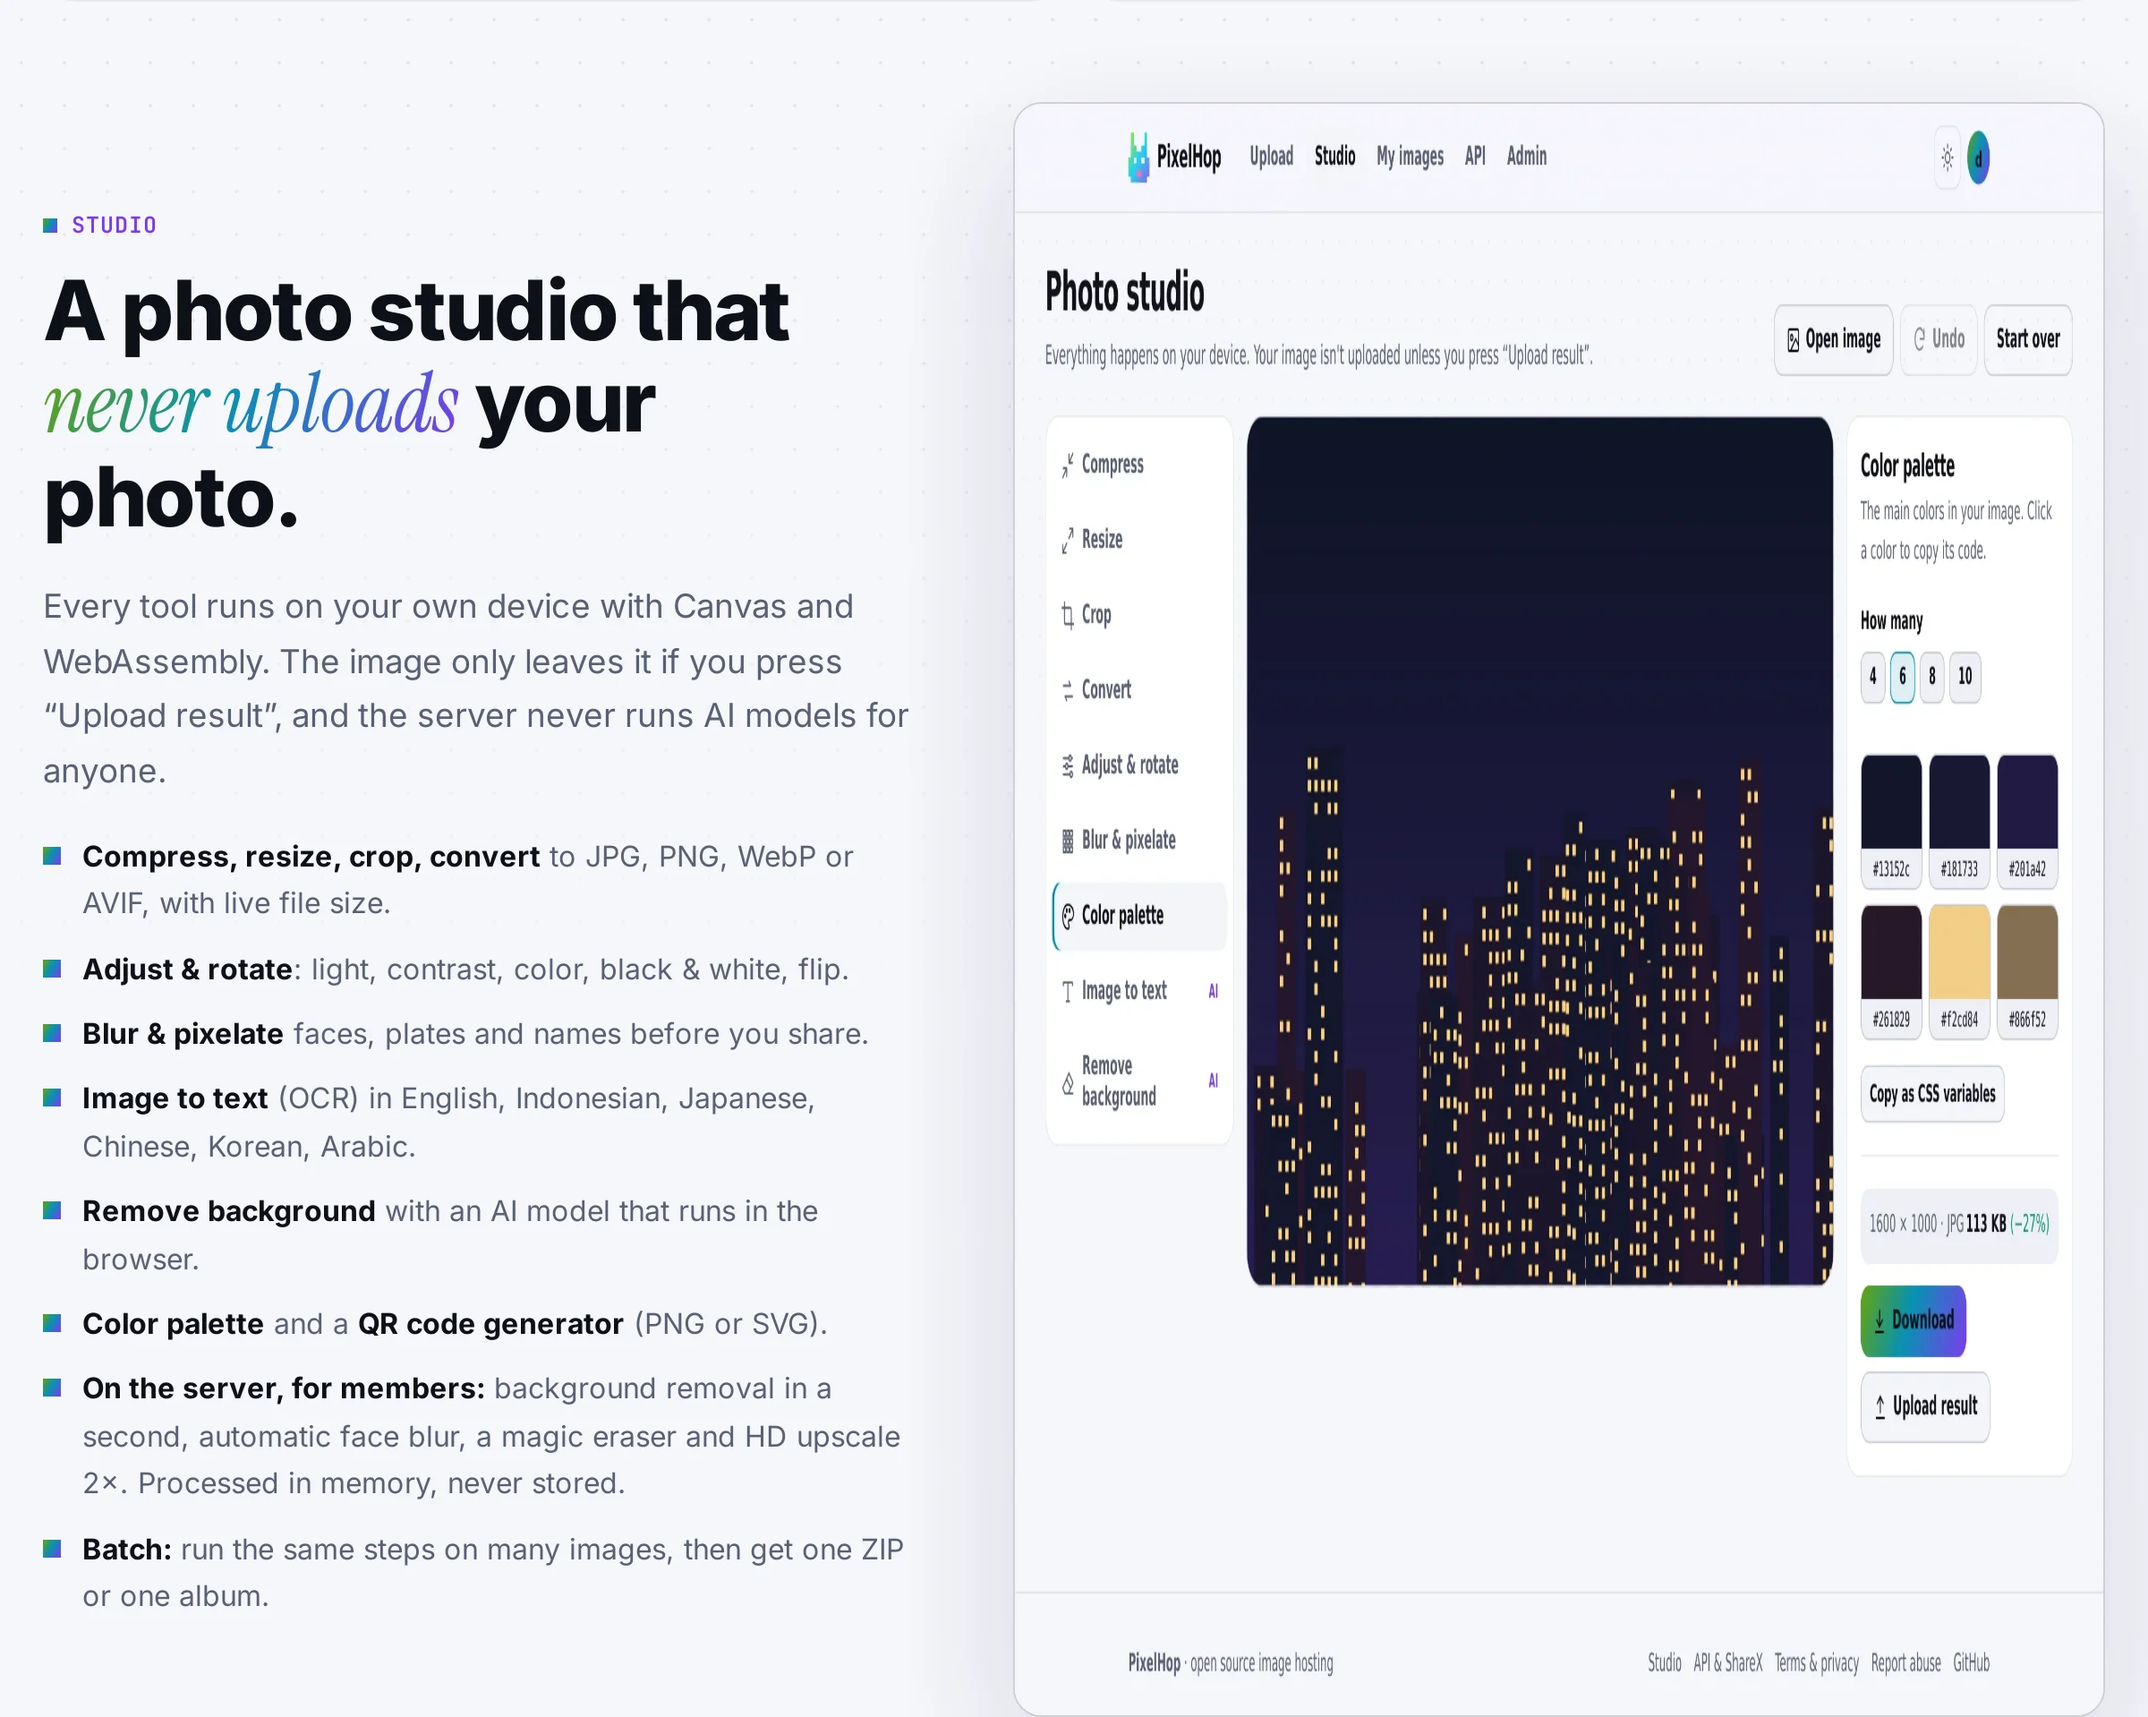
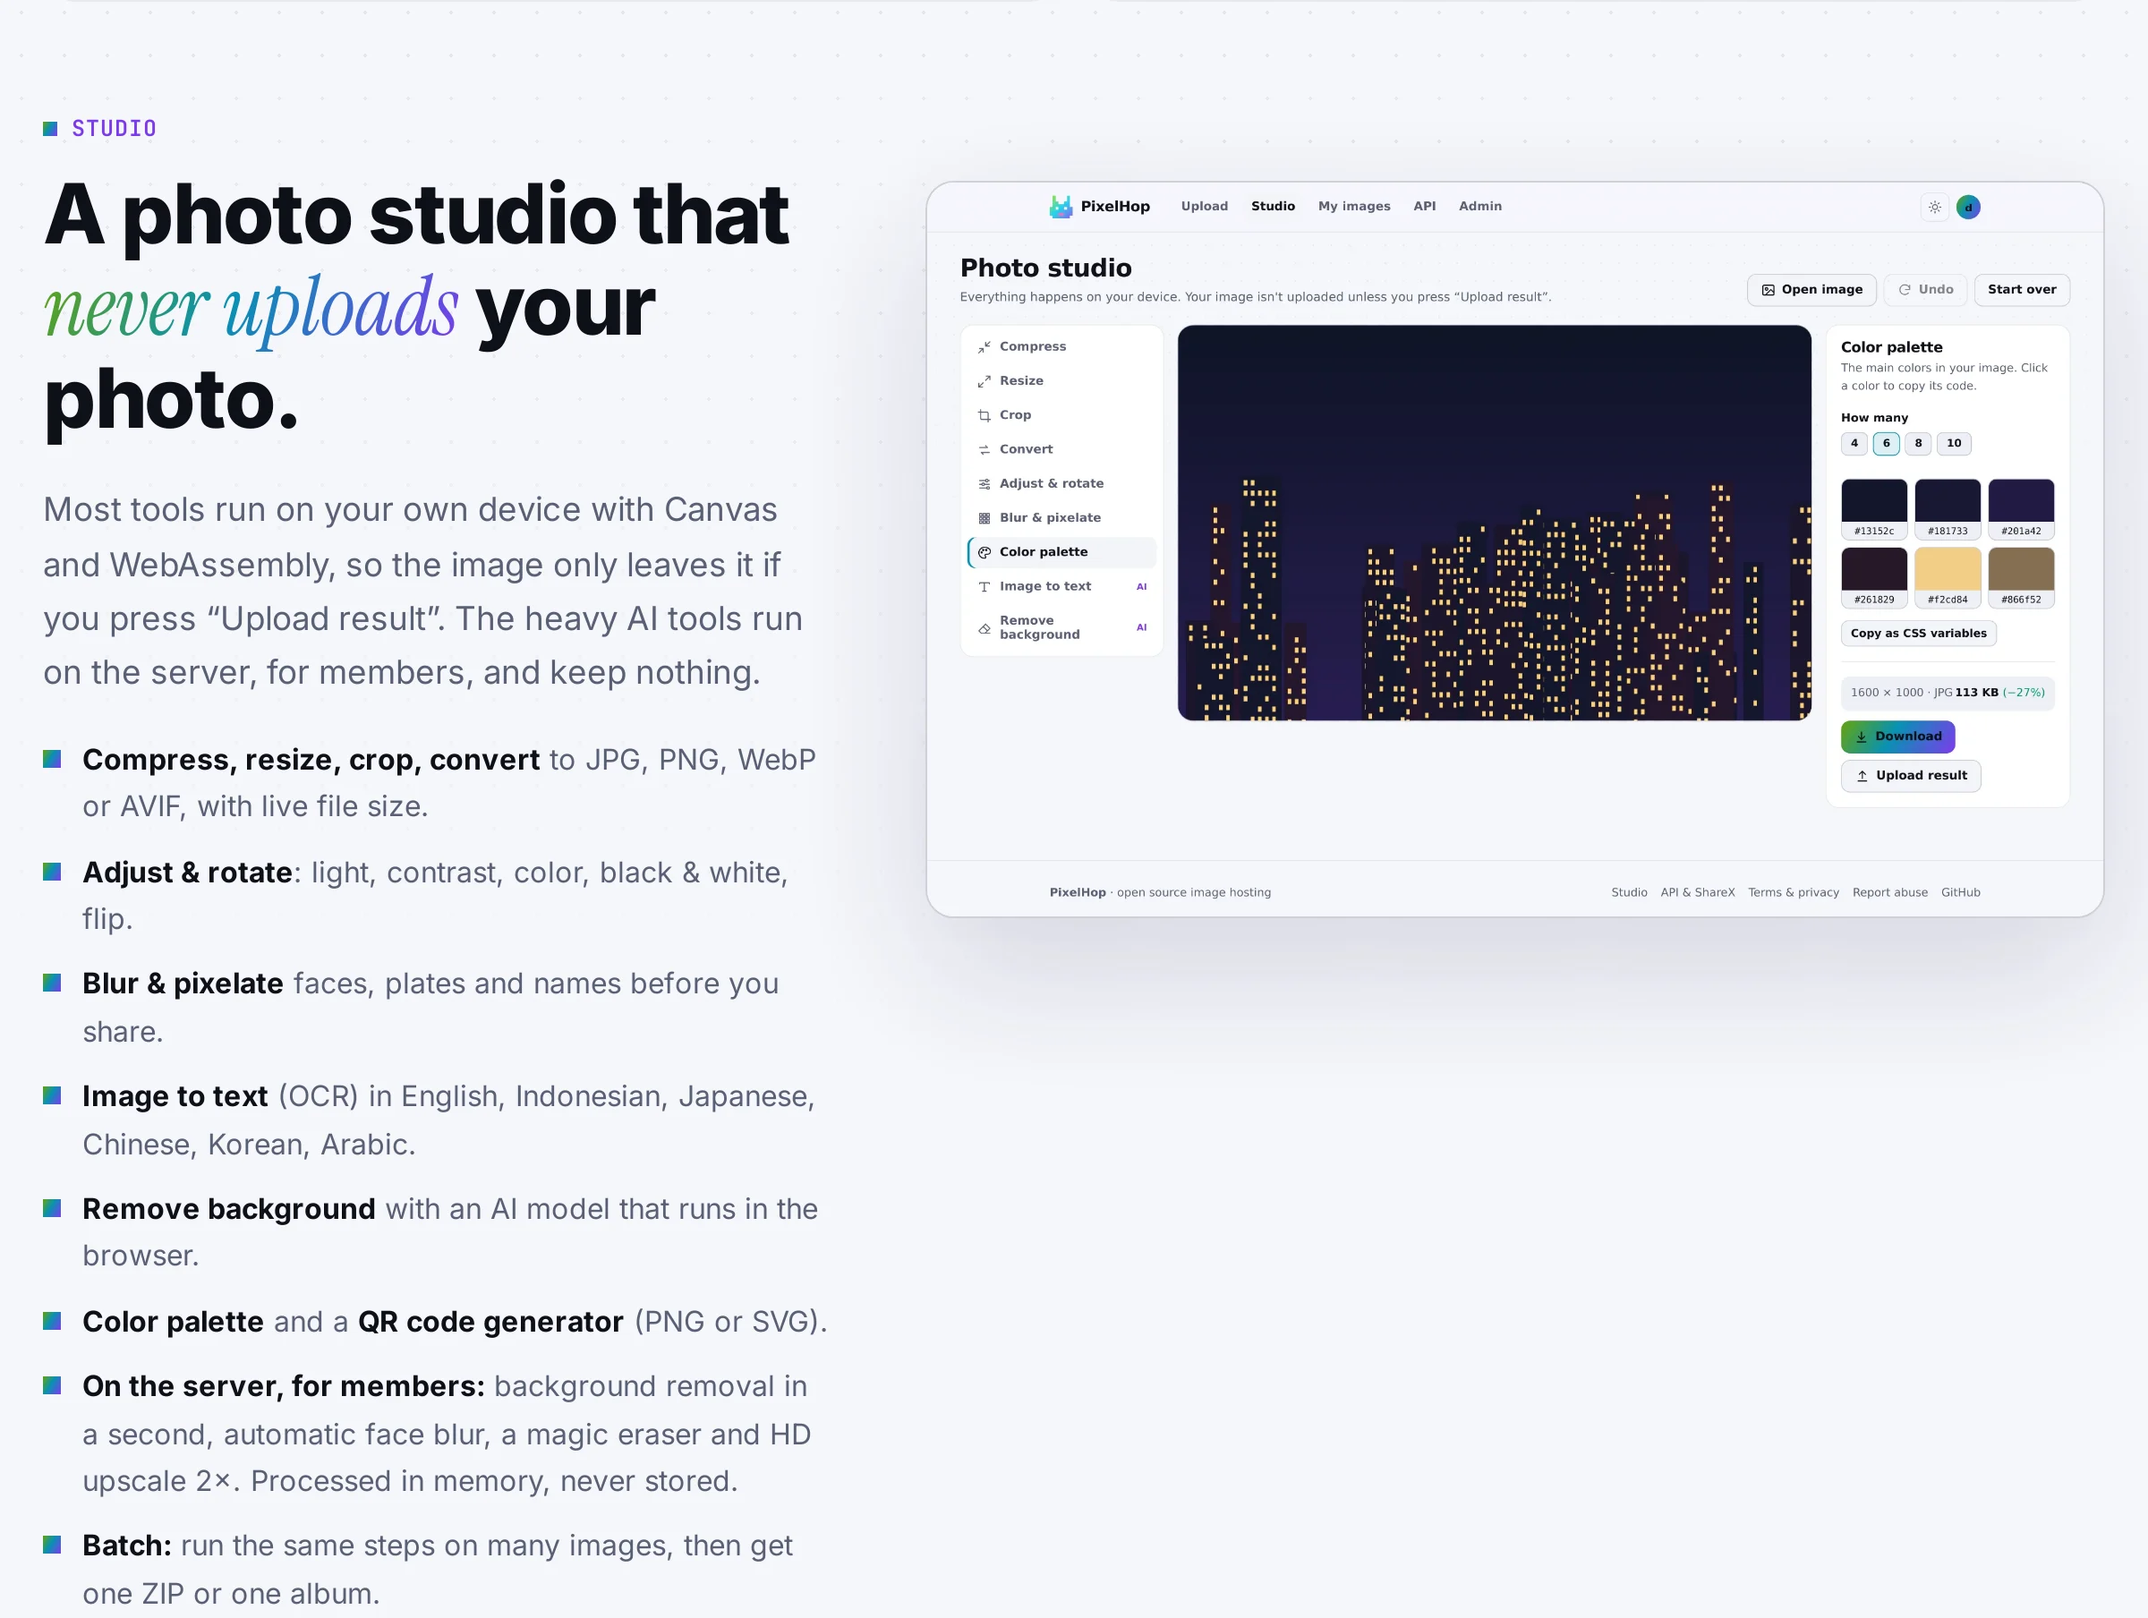
Fix the Windows build; keep screenshots in proportion
- disk space is read with syscall.Statfs only on unix; other systems skip it
  (the v3.0.0 release failed building pixelhop-windows-amd64.exe)
- website images get height:auto, so screenshots are no longer squeezed;
  studio screenshot aligned with its heading and a little larger
- studio copy mentions the optional server AI tools; README pictures re-rendered

diff --git a/docs/index.html b/docs/index.html
@@ -126,7 +126,7 @@ if(t==='light'||t==='dark')d.setAttribute('data-theme',t);})();
     <div class="rv">
       <div class="label">Studio</div>
       <h2><span data-en>A photo studio that <em class="s grad">never uploads</em> your photo.</span><span data-id>Studio foto yang <em class="s grad">tidak pernah mengunggah</em> fotomu.</span></h2>
-      <p class="lead"><span data-en>Every tool runs on your own device with Canvas and WebAssembly. The image only leaves it if you press “Upload result”, and the server never runs AI models for anyone.</span><span data-id>Semua alat jalan di perangkatmu sendiri dengan Canvas dan WebAssembly. Gambar baru keluar kalau kamu menekan “Upload result”, dan server tidak pernah menjalankan model AI untuk siapa pun.</span></p>
+      <p class="lead"><span data-en>Most tools run on your own device with Canvas and WebAssembly, so the image only leaves it if you press “Upload result”. The heavy AI tools run on the server, for members, and keep nothing.</span><span data-id>Sebagian besar alat jalan di perangkatmu sendiri dengan Canvas dan WebAssembly, jadi gambar baru keluar kalau kamu menekan “Upload result”. Alat AI yang berat jalan di server, untuk member, dan tidak menyimpan apa pun.</span></p>
       <ul class="ticks">
         <li><span data-en><b>Compress, resize, crop, convert</b> to JPG, PNG, WebP or AVIF, with live file size.</span><span data-id><b>Kompres, ubah ukuran, crop, konversi</b> ke JPG, PNG, WebP atau AVIF, ukuran file langsung terlihat.</span></li>
         <li><span data-en><b>Adjust &amp; rotate</b>: light, contrast, color, black &amp; white, flip.</span><span data-id><b>Atur &amp; putar</b>: terang, kontras, warna, hitam putih, balik.</span></li>

diff --git a/docs/assets/css/site.css b/docs/assets/css/site.css
@@ -46,7 +46,7 @@ body { margin: 0; background: var(--ground); color: var(--text); font: 16px/1.65
 body::before { content: ""; position: fixed; inset: 0; z-index: -1; pointer-events: none;
   background-image: radial-gradient(var(--dot) 1px, transparent 1px); background-size: 24px 24px;
   mask-image: linear-gradient(#000, transparent 75%); }
-img { max-width: 100%; display: block; }
+img { max-width: 100%; height: auto; display: block; }
 a { color: var(--cyan); text-decoration: none; }
 a:hover { text-decoration: underline; text-underline-offset: 3px; }
 h1, h2, h3 { margin: 0 0 .45em; line-height: 1.1; letter-spacing: -.025em; }
@@ -133,7 +133,9 @@ section { padding: 110px 0 0; scroll-margin-top: 60px; }
 @media (max-width: 600px) { .feats > div, .feats > div.w3 { grid-column: span 6; } }
 
 /* split rows */
-.split { display: grid; grid-template-columns: 1fr 1.25fr; gap: 54px; align-items: center; }
+.split { display: grid; grid-template-columns: 1fr 1.25fr; gap: 54px; align-items: start; }
+#studio .split { grid-template-columns: .9fr 1.35fr; }
+.split .mini-shot { margin-top: 44px; }
 .split.rev { grid-template-columns: 1.25fr 1fr; } .split.rev > :first-child { order: 2; }
 @media (max-width: 900px) { .split, .split.rev { grid-template-columns: 1fr; } .split.rev > :first-child { order: 0; } }
 .ticks { list-style: none; padding: 0; margin: 20px 0 0; display: grid; gap: 10px; }

diff --git a/internal/app/disk_other.go b/internal/app/disk_other.go
@@ -1,0 +1,6 @@
+//go:build !unix
+
+package app
+
+// diskSpace is not measured on this system; the admin page hides the figure.
+func diskSpace(string) (free, total int64) { return 0, 0 }

diff --git a/internal/app/disk_unix.go b/internal/app/disk_unix.go
@@ -1,3 +1,5 @@
+//go:build unix
+
 package app
 
 import "syscall"
